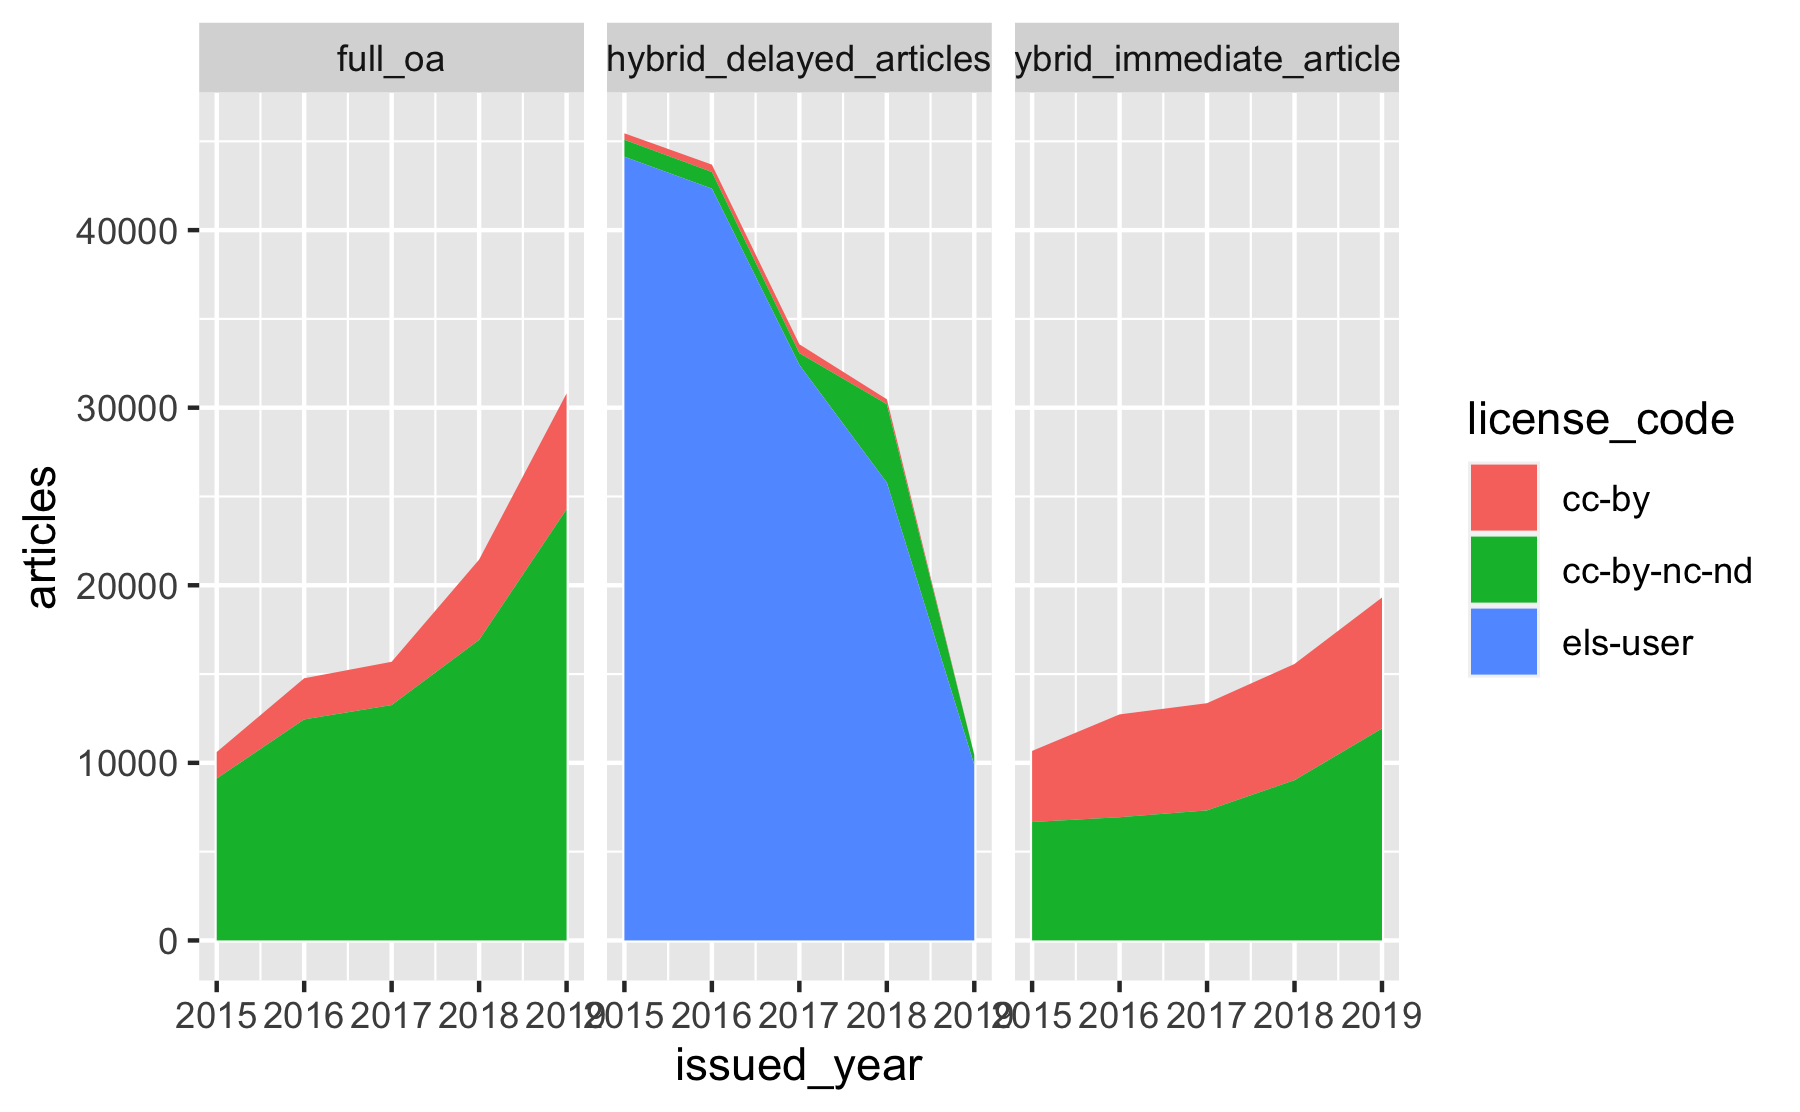
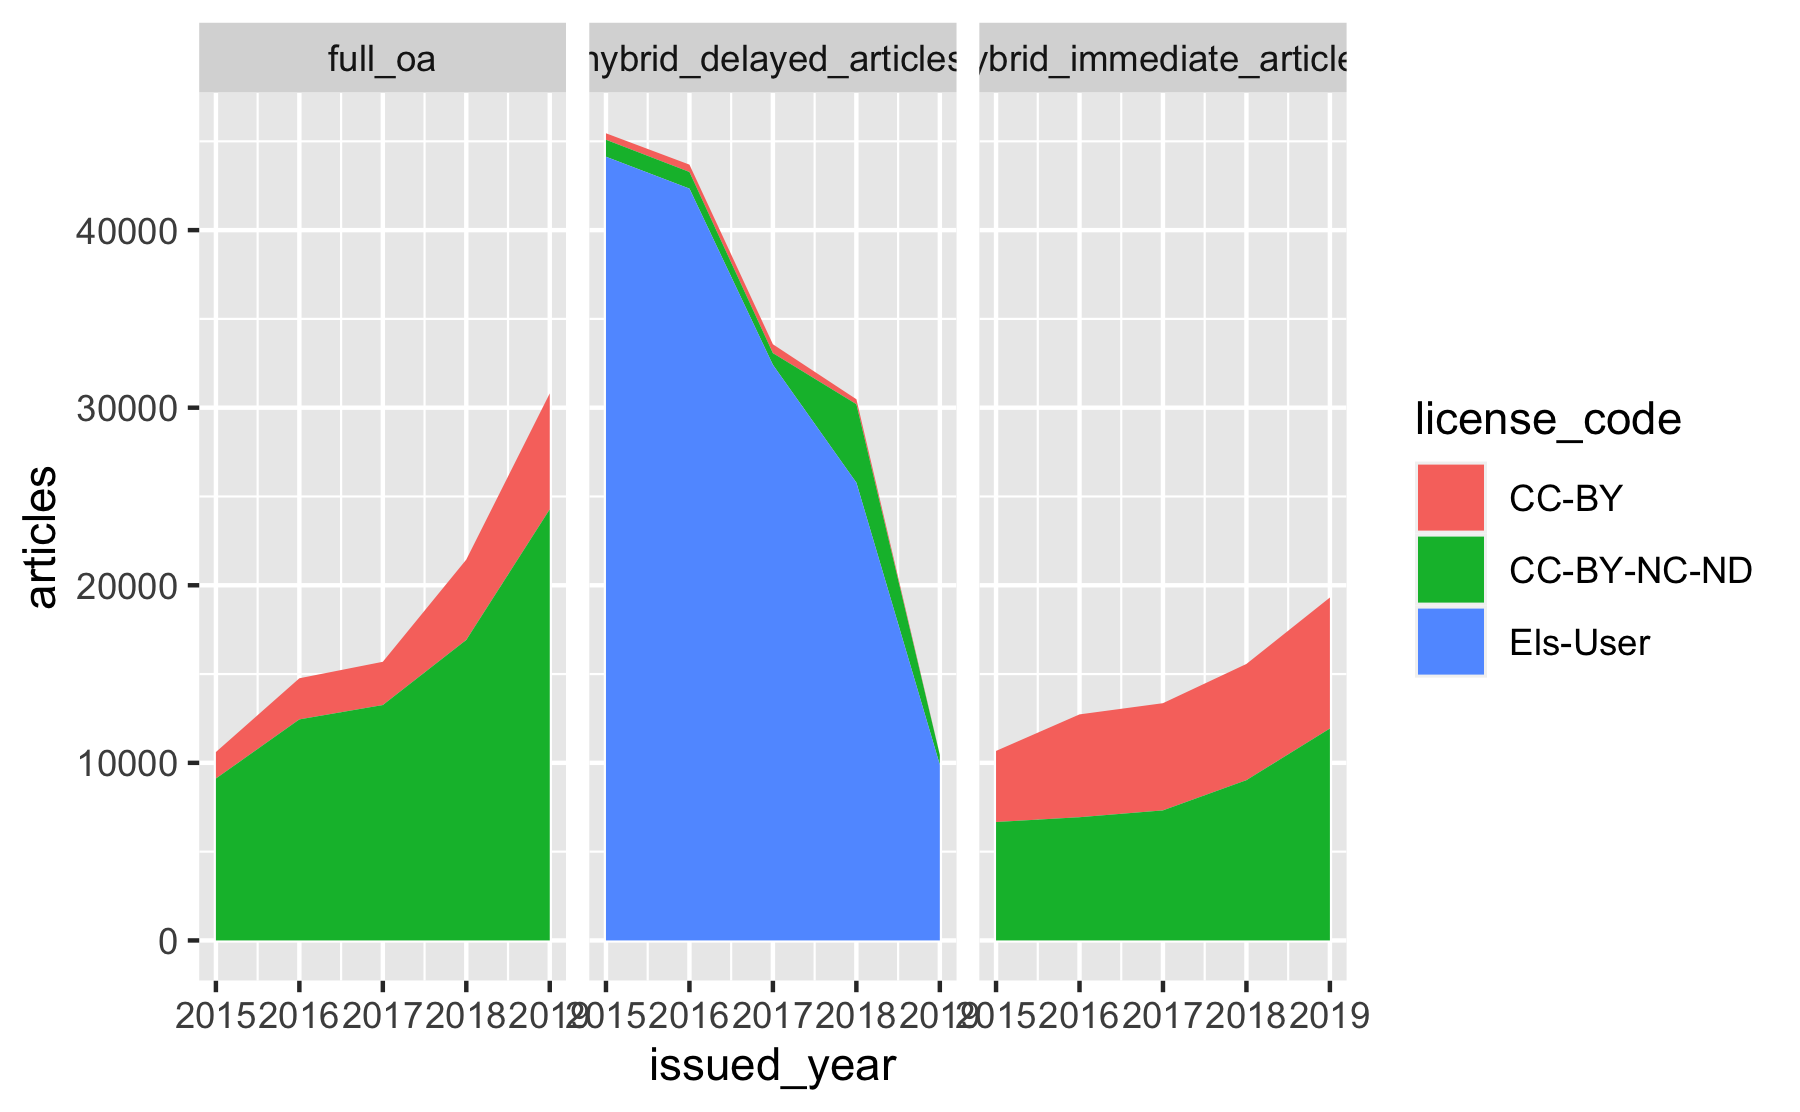
apa label

Changed region(s): [[0.1244, 0.0, 0.9644, 0.9784]]

diff --git a/analysis/006_license.md b/analysis/006_license.md
@@ -64,9 +64,9 @@ SELECT
 license_by_year <- license_agg %>%
   mutate(license_code =
            case_when(
-             grepl("/by/", license_url) ~ "cc-by",
-             grepl("/by-nc", license_url) ~ "cc-by-nc-nd",
-             grepl("userlicense", license_url) ~ "els-user")
+             grepl("/by/", license_url) ~ "CC-BY",
+             grepl("/by-nc", license_url) ~ "CC-BY-NC-ND",
+             grepl("userlicense", license_url) ~ "Els-User")
   ) %>%
   group_by(license_code, oa_type, issued_year) %>%
   summarise(n = sum(articles))
@@ -78,7 +78,7 @@ just immediate hybrid
 im_hybrid <- hybrid_articles <- readr::read_csv(here::here("data", "hybrid_articles.csv"))
 
 cc_hybrid <- im_hybrid %>%
-  mutate(license_code = ifelse(grepl("/by/", URL), "cc-by", "cc-by-nc-nd")) %>%
+  mutate(license_code = ifelse(grepl("/by/", URL), "CC-BY", "CC-BY-NC-ND")) %>%
   group_by(license_code, issued_year) %>%
   summarise(hybrid_immediate_articles = n()) %>%
   mutate(immediate = "immediate",
@@ -89,14 +89,14 @@ cc_hybrid <- im_hybrid %>%
   pivot_longer(c(hybrid_immediate_articles, hybrid_delayed_articles), names_to = "type", values_to = "articles")
 # user only open archive
 els_user <- license_by_year %>%
-  filter(license_code == "els-user") %>%
+  filter(license_code == "Els-User") %>%
   mutate(type = "hybrid_delayed_articles") %>%
   group_by(issued_year, type, license_code) %>%
   summarise(articles = sum(n))
 # full oa 
 full_oa_df <- license_by_year %>%
   ungroup() %>%
-  filter(license_code != "els-user", oa_type == "Open Access") %>%
+  filter(license_code != "Els-User", oa_type == "Open Access") %>%
   mutate(type = "full_oa") %>%
   rename(articles = n) %>%
   select(-oa_type)
@@ -157,10 +157,10 @@ p_1 <- year_per_oa_type_and_license %>%
     breaks = c(0, 0.02, 0.04, 0.06, 0.08)
   ) +
   scale_fill_manual(values = 
-                      c(`cc-by` = "#B52141",
-                        `cc-by-nc-nd` = "#0093c7",
-                        `els-user` = "grey80")) +
-  labs(x = "Publication year", y = "OA Percentage") +
+                      c(`CC-BY` = "#B52141",
+                        `CC-BY-NC-ND` = "#0093c7",
+                        `Els-User` = "grey80")) +
+  labs(x = "Publication Year", y = "OA Percentage") +
   theme_minimal_hgrid() +
   theme(legend.position = "top",
         legend.justification = "right") +
@@ -236,18 +236,18 @@ SELECT  issued_year,
 ``` r
 els_yearly_mirror
 #> # A tibble: 40 x 3
-#>    issued_year container_title                      all_articles
-#>          <int> <chr>                                       <int>
-#>  1        2018 Water Research X                               12
-#>  2        2019 Diabetes & Metabolism: X                        1
-#>  3        2019 Atmospheric Environment: X                     50
-#>  4        2019 Contraception: X                               13
-#>  5        2019 Journal of Hydrology X                         33
-#>  6        2019 Respiratory Medicine: X                        11
-#>  7        2019 Journal of Structural Biology: X               10
-#>  8        2019 Water Research X                               20
-#>  9        2019 Chemical Engineering Science: X                43
-#> 10        2019 Journal of Biomedical Informatics: X           25
+#>    issued_year container_title                                      all_articles
+#>          <int> <chr>                                                       <int>
+#>  1        2018 Journal of Hydrology X                                          5
+#>  2        2018 Water Research X                                               12
+#>  3        2019 Energy Conversion and Management: X                            14
+#>  4        2019 Optical Materials: X                                           34
+#>  5        2019 Journal of Computational Physics: X                            33
+#>  6        2019 Respiratory Medicine: X                                        11
+#>  7        2019 European Journal of Obstetrics & Gynecology and Rep…           80
+#>  8        2019 Atmospheric Environment: X                                     50
+#>  9        2019 Journal of Structural Biology: X                               10
+#> 10        2019 Gene: X                                                        19
 #> # … with 30 more rows
 ```
 
